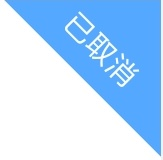
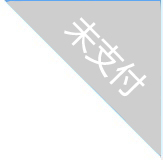
修改订单页面角标图像及其显示逻辑

diff --git a/frontend/pages/order/all_orders.js b/frontend/pages/order/all_orders.js
@@ -11,7 +11,7 @@ export default {
 		return {
 			loadingText: '',
 			list_orders: [],
-			null_orders:[],
+			null_orders: [],
 			page: 0, //当前分页页码
 			apiUrl: '', //后端接口地址
 			id: '', //传值使用,方便存在本地的locakStorage
@@ -61,8 +61,18 @@ export default {
 			// console.log(index);
 			// console.log(JSON.stringify(this.list_orders[index]));
 			uni.navigateTo({
-				url: "/pages/order/detail?userInfo=" + this.list_orders[index]["userInfo"] +"&indentNo=" + this.list_orders[index]["indentNo"] + "&itemInfo=" +this.list_orders[index]["itemInfo"]
+				url: "/pages/order/detail?userInfo=" + this.list_orders[index]["userInfo"] + "&indentNo=" + this.list_orders[
+					index]["indentNo"] + "&itemInfo=" + this.list_orders[index]["itemInfo"]
 			})
+		},
+		geturl: function(item_orders) {
+			if (item_orders.indentType == '1') {
+				return "/static/all_orders/images/all_orders_6_6.jpg"
+			}else if(item_orders.indentType == '2'){
+				return "/static/all_orders/images/all_orders_6_7.jpg"
+			}else{
+				return "/static/all_orders/images/all_orders_6_8.jpg"
+			}
 		},
 		refresh: function() {
 			// 判断登录状态

diff --git a/frontend/pages/order/order.vue b/frontend/pages/order/order.vue
@@ -23,7 +23,7 @@
 							<text decode="true" class="orderNo">{{item_orders.indentNo}}</text>
 						</view>
 					</view>
-					<image v-on:click="all_orders_6_6_click(item_orders)" src="/static/all_orders/images/all_orders_6_7.jpg" mode="scaleToFill"
+					<image v-on:click="all_orders_6_6_click(item_orders)" :src="geturl(item_orders)" mode="scaleToFill"
 					 border="0" class="all_orders_6"></image>
 				</view>
 			</view>
